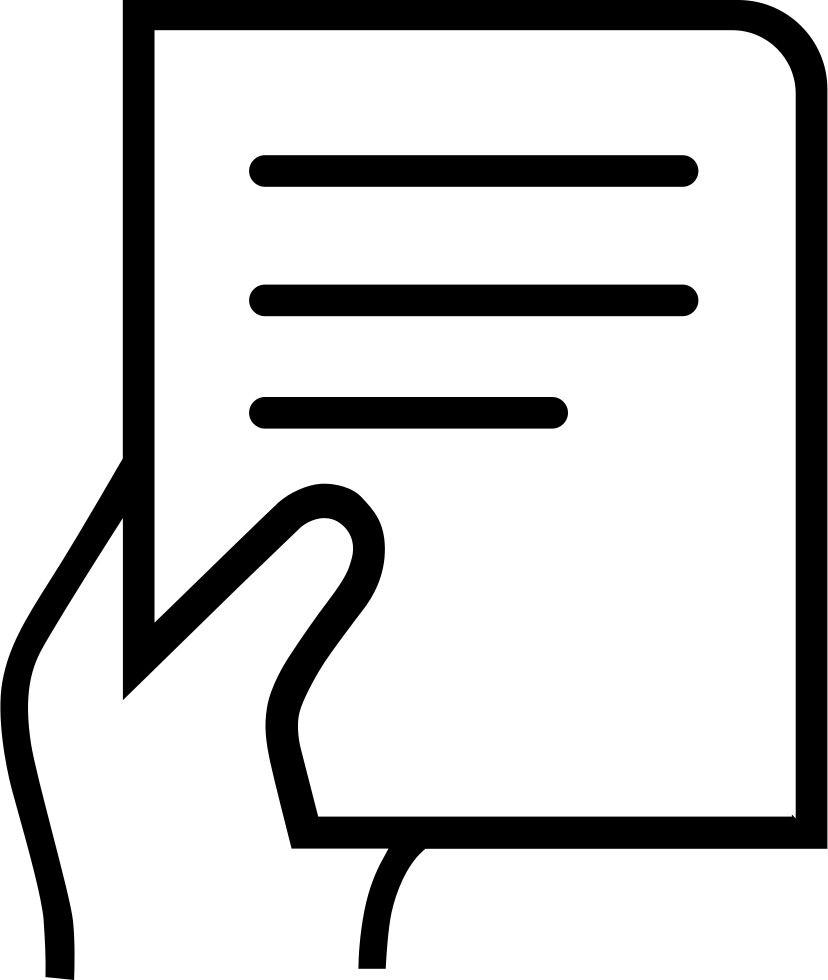
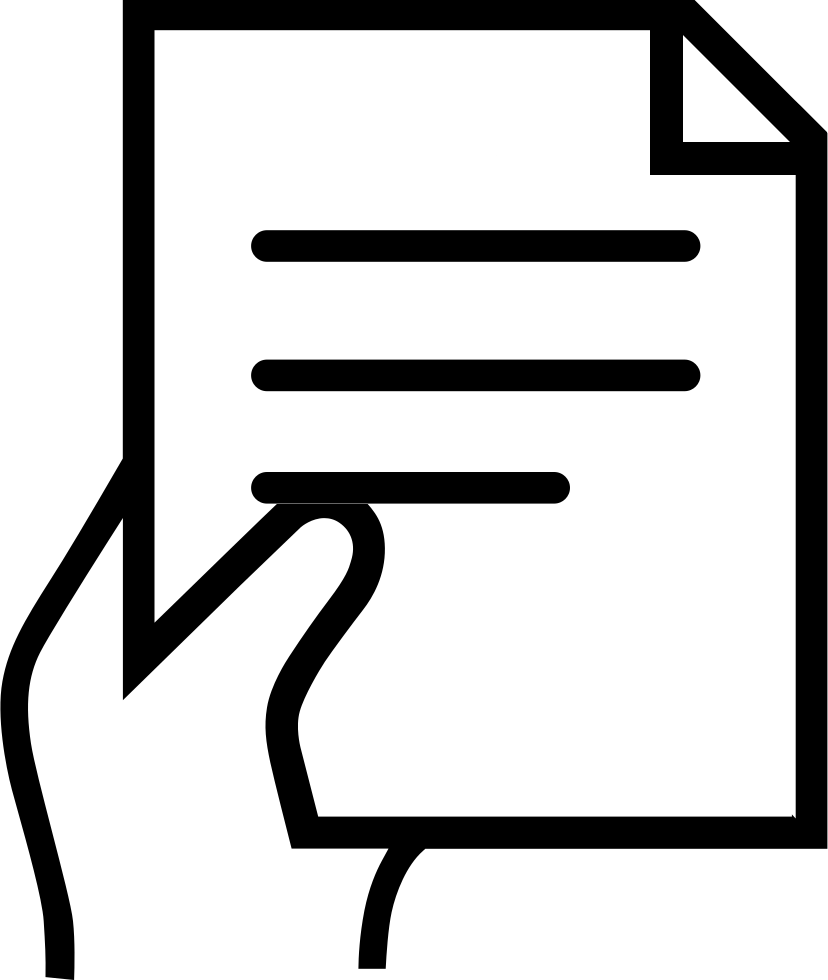
update image

Changed region(s): [[0.3019, 0.0, 1.0, 0.3367], [0.3019, 0.3673, 0.8454, 0.5204]]

diff --git a/2/revoke-claim.md b/2/revoke-claim.md
@@ -23,6 +23,8 @@
 
 Click the other tabs to view hints.
 
+![Shred Paper](./assets/revoke.png ':size=300')
+
 #### ** Hint: Input **
 
 ```rust
